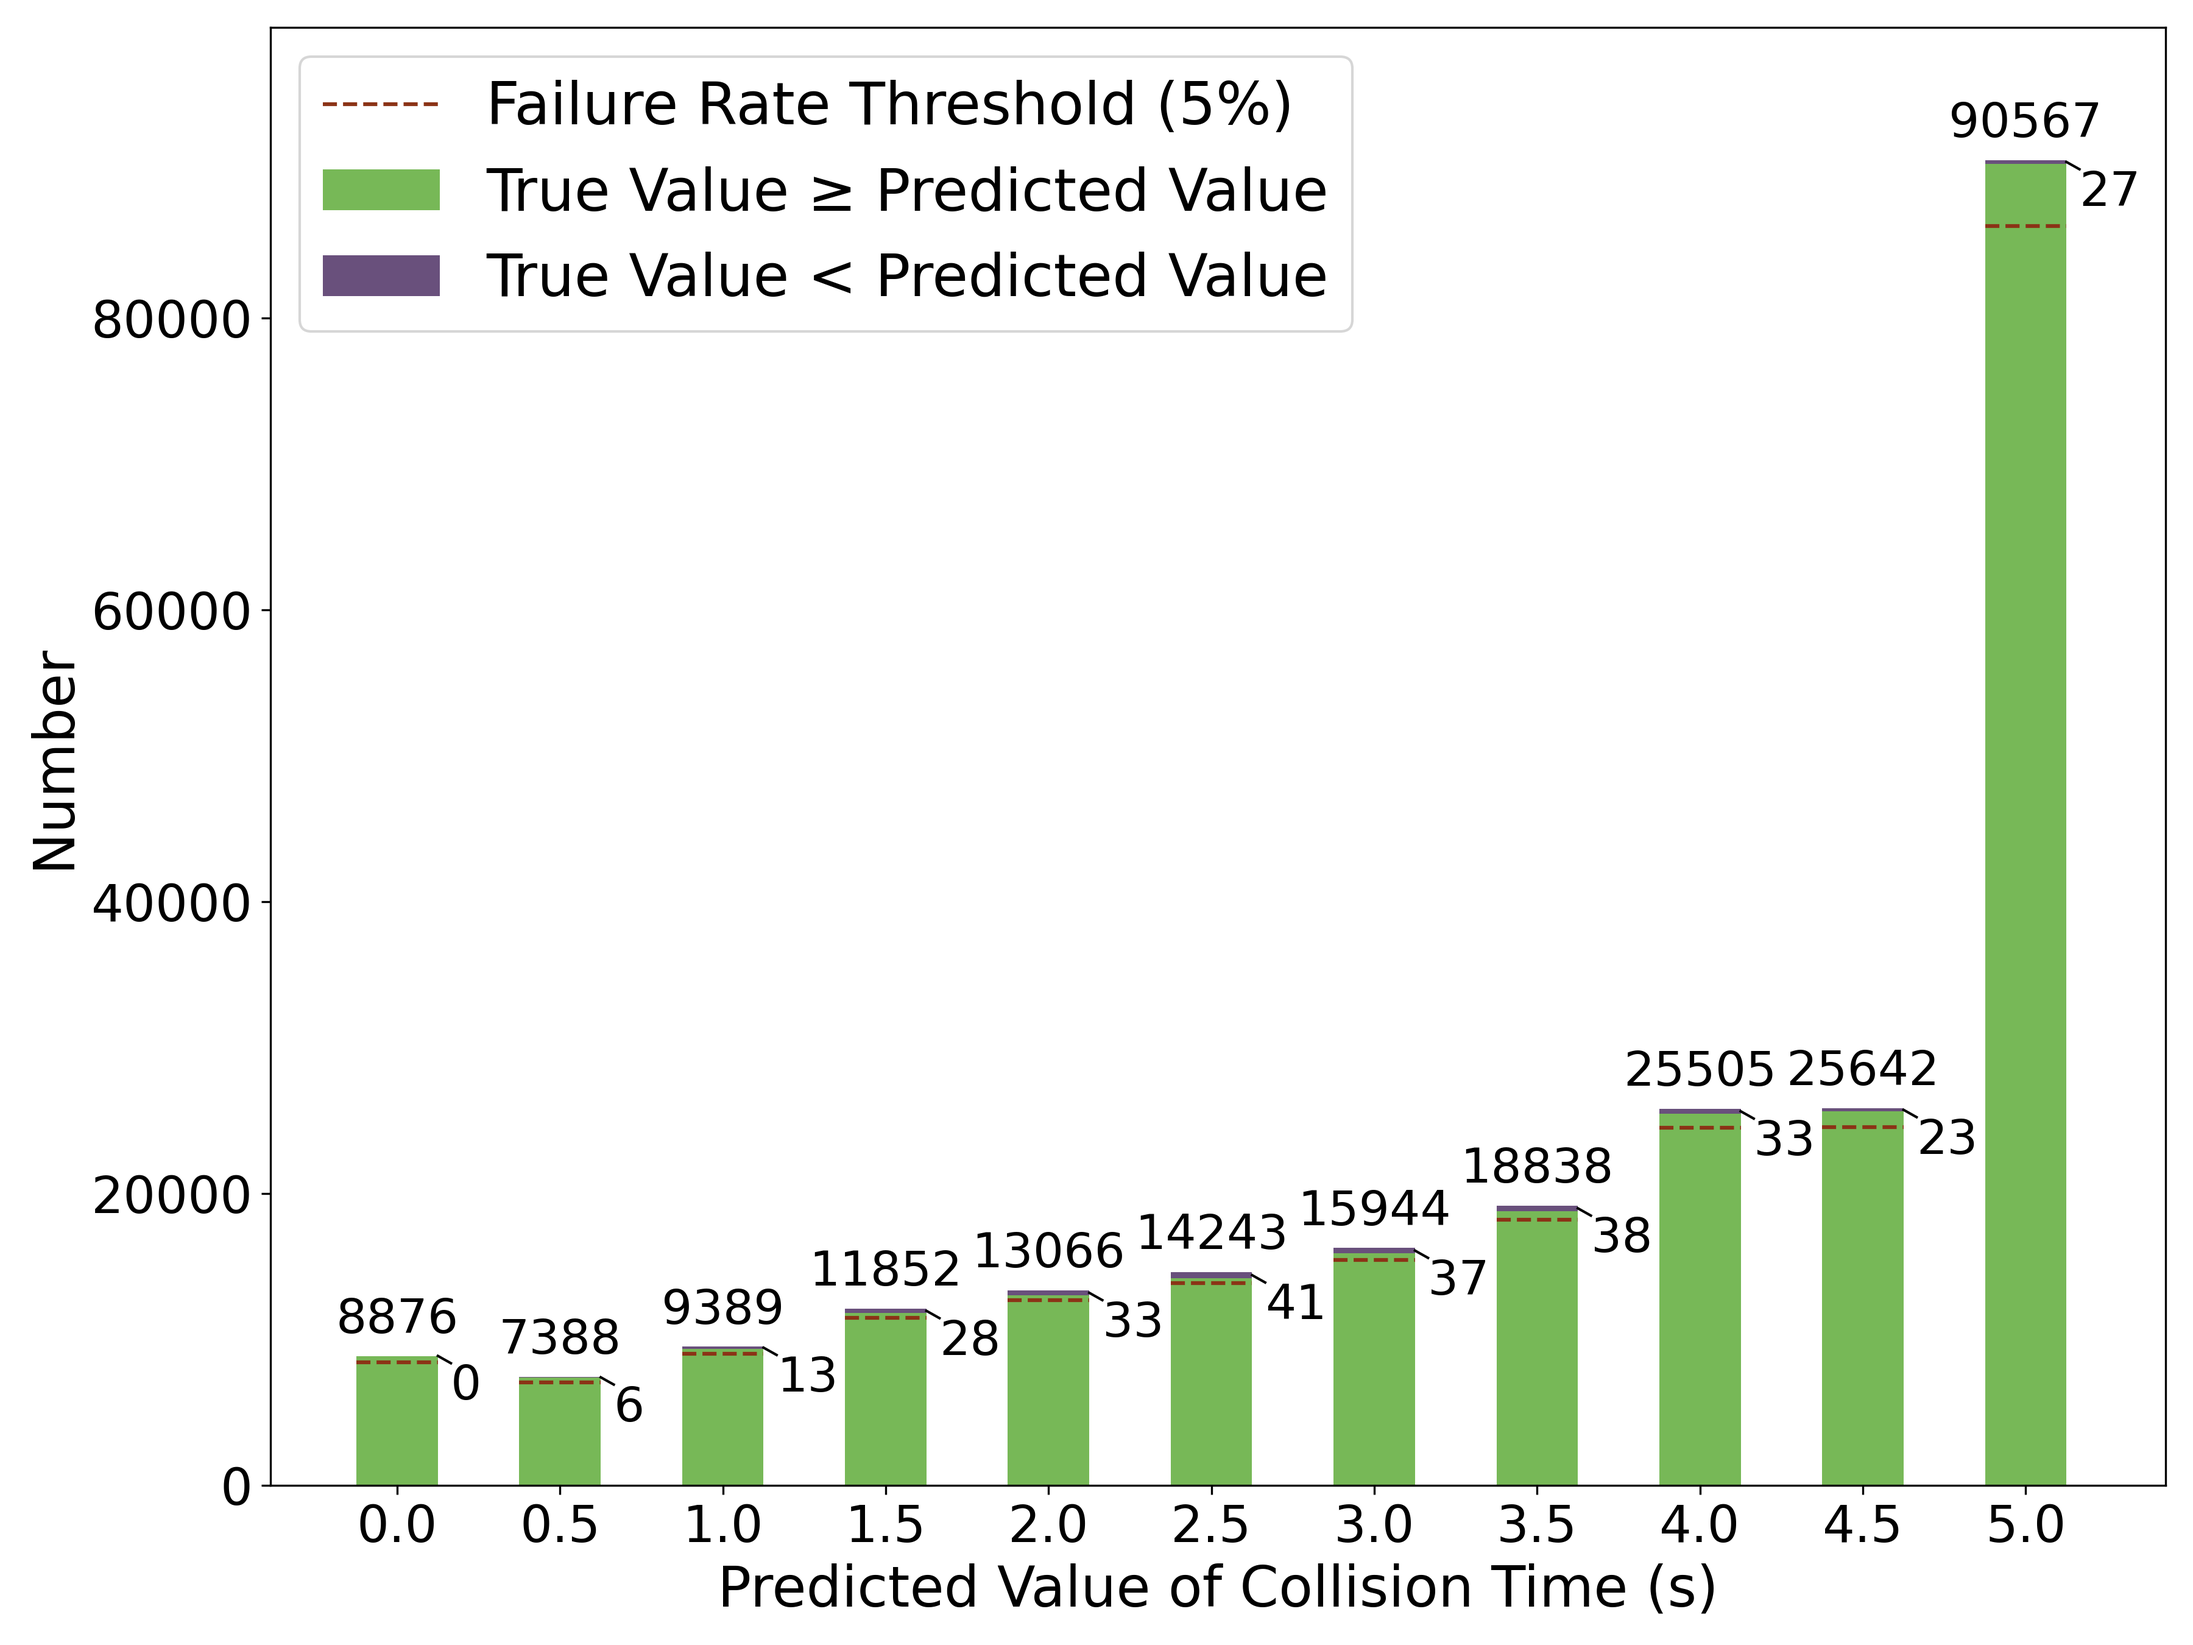
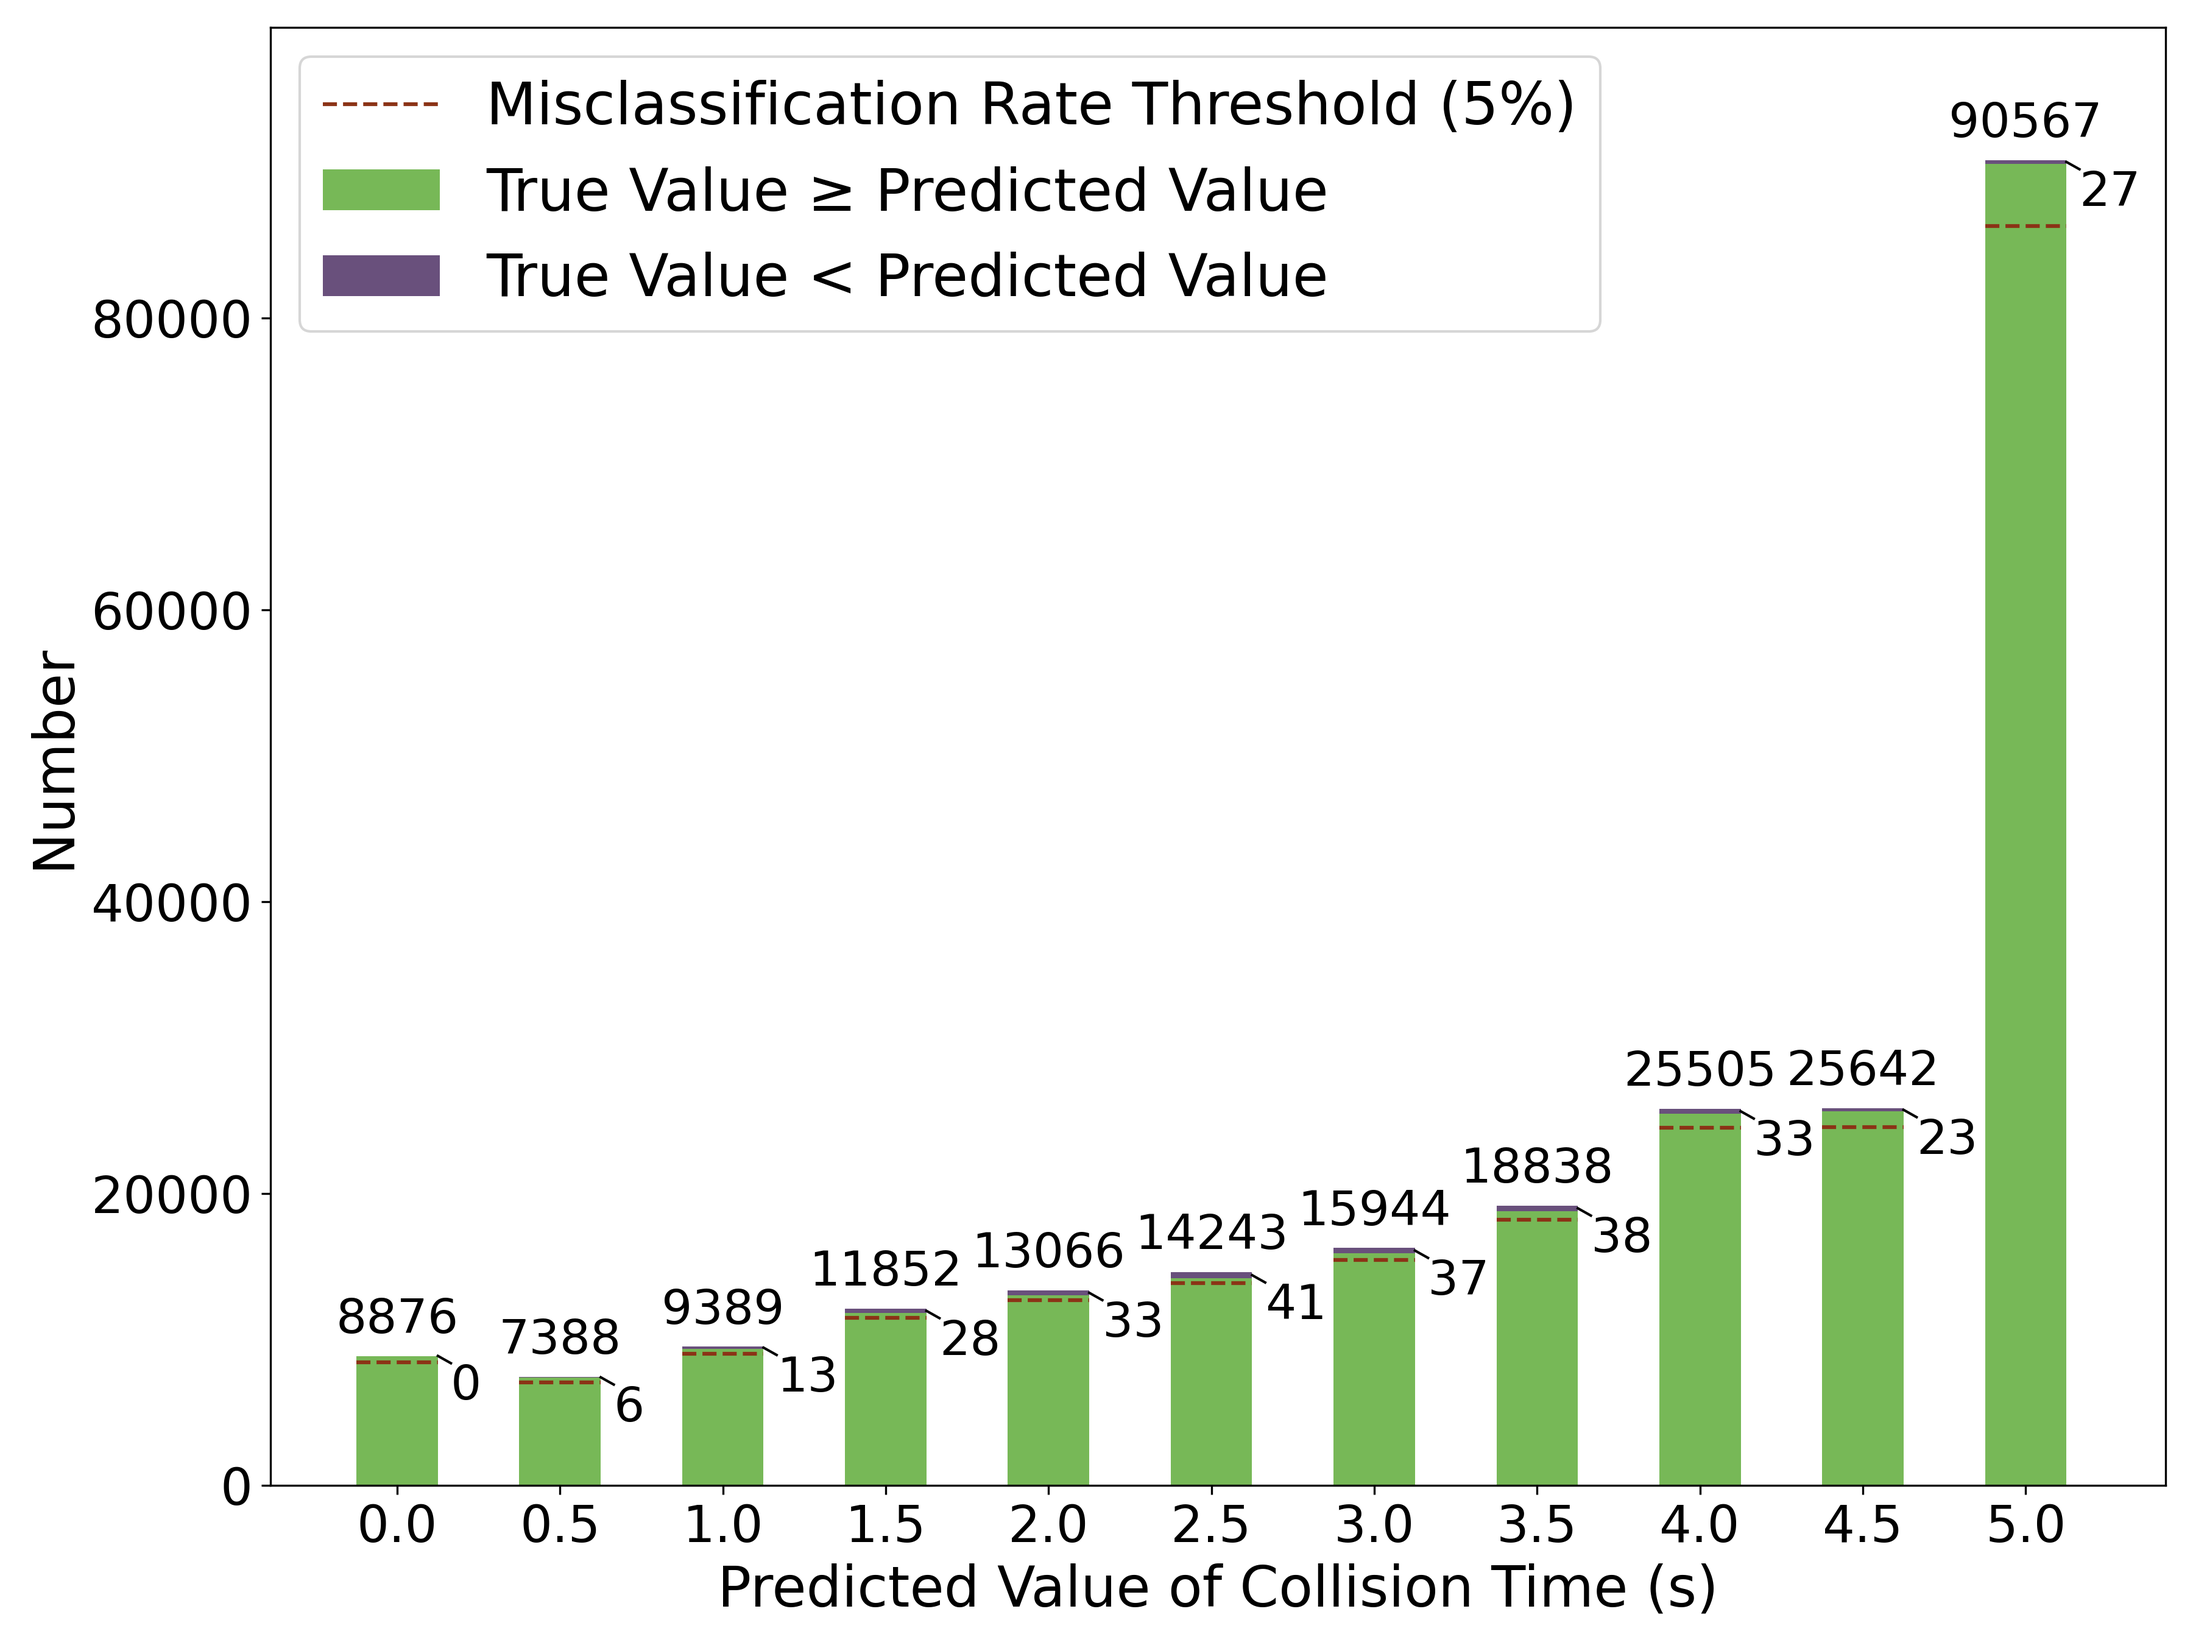
update

Changed region(s): [[0.2178, 0.0311, 0.7156, 0.0933]]

diff --git a/provability_experiment_main.py b/provability_experiment_main.py
@@ -114,7 +114,7 @@ for i, neg in enumerate(negative_counts):
 threshold_percent = round(min(conf.epsilons) * 100)
 
 if threshold_lines:
-    threshold_lines[0].set_label(f'Failure Rate Threshold ({threshold_percent}%)')
+    threshold_lines[0].set_label(f'Misclassification Rate Threshold ({threshold_percent}%)')
 
 max_height = max([p + n * scale_factor for p, n in zip(positive_counts, negative_counts)])
 plt.ylim(0, max_height * 1.1)
@@ -126,38 +126,38 @@ plt.legend(fontsize=23)
 plt.tight_layout()
 plt.savefig(figure_dir + 'true_and_predicted_values', dpi=300)
 
-# Draw the line chart of the failure rate by predicted time
+# Draw the line chart of the misclassification rate by predicted time
 
 plt.figure(figsize=(11, 9))
 
-failure_rates = []
+misclassification_rates = []
 for i in range(len(bins)):
     total = positive_counts[i] + negative_counts[i]
     if total > 0:
-        failure_rate = (negative_counts[i] / total) * 100
+        misclassification_rate = (negative_counts[i] / total) * 100
     else:
-        failure_rate = 0
-    failure_rates.append(failure_rate)
+        misclassification_rate = 0
+    misclassification_rates.append(misclassification_rate)
 
-plt.plot(bins, failure_rates, 'bo-', linewidth=2.5, markersize=9, label='Failure Rate')
+plt.plot(bins, misclassification_rates, 'bo-', linewidth=2.5, markersize=9, label='Misclassification Rate')
 
 plt.hlines(y=threshold_percent, xmin=0.0, xmax=5.0, 
            colors='r', linestyles='--', linewidth=2.5, 
-           label=f'Failure Rate Threshold ({threshold_percent}%)')
+           label=f'Misclassification Rate Threshold ({threshold_percent}%)')
 
-for i, rate in enumerate(failure_rates):
+for i, rate in enumerate(misclassification_rates):
     plt.text(bins[i], rate + 0.1, f'{rate:.2f}%', 
              ha='center', va='bottom', fontsize=20)
 
 plt.xticks(bins, bin_labels, fontsize=22)
 plt.yticks(fontsize=22)
 plt.xlabel('Predicted Value of Collision Time (s)', fontsize=22)
-plt.ylabel('Failure Rate (%)', fontsize=22)
+plt.ylabel('Misclassification Rate (%)', fontsize=22)
 plt.legend(loc='center right', fontsize=23)
 plt.ylim(-0.2, 5.2)
 plt.tight_layout()
 
-plt.savefig(figure_dir + 'failure_rate_by_predicted_time.png', dpi=300)
+plt.savefig(figure_dir + 'misclassification_rate_by_predicted_time.png', dpi=300)
 
 
 # calculate the probability of true collision time ≥ predicted value to verify the provability

diff --git a/README.md b/README.md
@@ -1,10 +1,10 @@
-# A Provable Safety Metric for Autonomous Driving via PAC-Verified Deep Reinforcement Learning
+# A Provable Safety Metric for Autonomous Driving via Deep Reinforcement Learning and PAC Verification
 
 <!-- ABOUT THE PROJECT -->
 # Introduction of the Project
 
 ## About
-This project contains the source code and data for the paper titled "A Provable Safety Metric for Autonomous Driving via PAC-Verified Deep Reinforcement Learning". We propose a real-time automonous driving safety metric called Provable Minimum Collision Time (PMCT) that provably predict the minimum time to collision from the inputed initial state. 
+This project contains the source code and data for the paper titled "A Provable Safety Metric for Autonomous Driving via Deep Reinforcement Learning and PAC Verification". We propose a real-time automonous driving safety metric called Provable Minimum Collision Time (PMCT) that provably predict the minimum time to collision from the inputed initial state. 
 
 ## Code Structure
 
